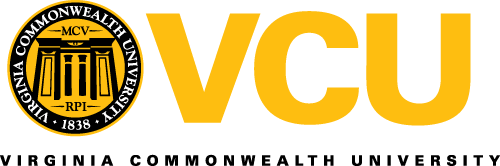
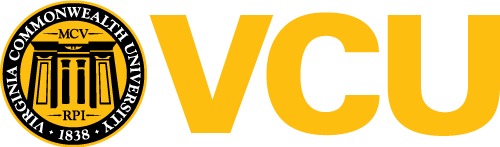
horses horses, mobile tweaks

diff --git a/app/assets/css/style.css b/app/assets/css/style.css
@@ -1,1 +1,1 @@
-abbr,address,article,aside,audio,b,blockquote,body,body div,caption,cite,code,dd,del,details,dfn,dl,dt,em,fieldset,figure,footer,form,h1,h2,h3,h4,h5,h6,header,html,i,iframe,img,ins,kbd,label,legend,li,mark,menu,nav,object,ol,p,pre,q,samp,section,small,span,strong,sub,summary,sup,table,tbody,td,tfoot,th,thead,time,tr,ul,var,video{margin:0;padding:0;border:0;font-size:100%;font-weight:400;vertical-align:baseline;background:0 0}article,aside,details,figcaption,figure,footer,header,hgroup,nav,section,summary{display:block}audio,canvas,video{display:inline-block}*,:after,:before{-webkit-box-sizing:border-box;-moz-box-sizing:border-box;box-sizing:border-box}audio:not([controls]){display:none;height:0}[hidden],template{display:none}.h1,.h2,.h3,.h4,.h5,button,h1,h2,h3,h4,h5,html,input,select,textarea{font-smoothing:antialiased;text-rendering:optimizeLegibility}html{background:#fff;color:#333;-webkit-text-size-adjust:100%;-ms-text-size-adjust:100%;overflow-y:scroll}button,html,input,select,textarea{margin:0;font-family:"Open Sans",sans-serif}a{color:#fff}a:focus{outline:thin dotted}a:active,a:hover{outline:0;color:#e8e8e8}h1{font-size:2em;margin:.67em 0}h2{font-size:1.5em;margin:.83em 0}h3{font-size:1.17em;margin:1em 0}h4{font-size:1em;margin:1.33em 0}h5{font-size:.83em;margin:1.67em 0}h6{font-size:.75em;margin:2.33em 0}.h1 a,.h1 a:hover,.h2 a,.h2 a:hover,.h3 a,.h3 a:hover,.h4 a,.h4 a:hover,.h5 a,.h5 a:hover,h1 a,h1 a:hover,h2 a,h2 a:hover,h3 a,h3 a:hover,h4 a,h4 a:hover,h5 a,h5 a:hover{color:#333;text-decoration:none}hgroup{margin-bottom:.75em}p{margin:0 0 1.5em;word-break:break-all;word-break:break-word;-webkit-hyphens:auto;-moz-hyphens:auto;-ms-hyphens:auto;hyphens:auto}b,strong{font-weight:700}dfn{font-style:italic}mark{background:#ff0;color:#000}code,kbd,pre,samp{font-family:monospace,serif;font-size:1em}pre{white-space:pre;white-space:pre-wrap;white-space:pre-line;word-wrap:break-word}small{font-size:80%}sub,sup{font-size:75%;line-height:0;position:relative;vertical-align:baseline}sup{top:-.5em}sub{bottom:-.25em}del{text-decoration:line-through}abbr,acronym{border-bottom:1px dotted #ddd;cursor:help}address{display:block;margin:0 0 .75em}blockquote,q{quotes:none}blockquote:after,blockquote:before,q:after,q:before{content:'';content:none}blockquote{border-left:2px solid #ddd;color:#595959;margin:1.5em 0;padding-left:.75em}cite{color:#737373;font-style:italic}cite:before{content:'\2014 \00A0'}button,html input[type=button],input[type=reset],input[type=submit]{padding:1em 2em;color:#fff;background:#466dd1}button:hover,html input[type=button]:hover,input[type=reset]:hover,input[type=submit]:hover{background:#2d54b7}fieldset{border:1px solid #ddd;background:#f7f7f7;margin:0 0 .75em;padding:1.5em}legend{white-space:normal}label{font-weight:700;margin-bottom:.375em}label.required:after{content:"*"}label abbr{display:none}button,input,select,textarea{font-family:inherit;font-size:100%;vertical-align:baseline}button,input{line-height:normal}button,select{text-transform:none}select{width:auto;max-width:100%;margin-bottom:1.5em}button,html input[type=button],input[type=reset],input[type=submit]{-webkit-appearance:none;cursor:pointer;white-space:nowrap;border:0}button[disabled],input[disabled]{cursor:default}input[type=search]{-webkit-appearance:textfield}input[type=search]::-webkit-search-cancel-button,input[type=search]::-webkit-search-decoration{-webkit-appearance:none}button::-moz-focus-inner,input::-moz-focus-inner{border:0;padding:0}input[type=color],input[type=date],input[type=datetime-local],input[type=datetime],input[type=email],input[type=month],input[type=number],input[type=password],input[type=search],input[type=tel],input[type=text],input[type=time],input[type=url],input[type=week],select[multiple=multiple],textarea{background-color:#fff;border:1px solid #ddd;margin-bottom:.75em;padding:.5em;-webkit-transition:.2s;transition:.2s;width:100%;line-height:1.5em}input[type=color]:hover,input[type=date]:hover,input[type=datetime-local]:hover,input[type=datetime]:hover,input[type=email]:hover,input[type=month]:hover,input[type=number]:hover,input[type=password]:hover,input[type=search]:hover,input[type=tel]:hover,input[type=text]:hover,input[type=time]:hover,input[type=url]:hover,input[type=week]:hover,select[multiple=multiple]:hover,textarea:hover{border-color:#eee}input[type=color]:focus,input[type=date]:focus,input[type=datetime-local]:focus,input[type=datetime]:focus,input[type=email]:focus,input[type=month]:focus,input[type=number]:focus,input[type=password]:focus,input[type=search]:focus,input[type=tel]:focus,input[type=text]:focus,input[type=time]:focus,input[type=url]:focus,input[type=week]:focus,select[multiple=multiple]:focus,textarea:focus{border-color:#ddd;outline:0}textarea{overflow:auto;vertical-align:top;resize:vertical}ol,ul{margin:0 0 0 1.25em}dl dt{font-weight:700}nav ol,nav ul{margin:0;list-style:none}table{border-collapse:collapse;border-spacing:0;margin:.75em 0;table-layout:fixed;width:100%}th{border-bottom:1px solid #b7b7b7;font-weight:700;padding:.75em 0;text-align:left}td{border-bottom:1px solid #ddd;padding:.75em 0}td,th,tr{vertical-align:middle}embed,img,object{max-width:100%}abbr[title],dfn[title]{border-bottom:1px dotted #000;cursor:help}hr{display:block;height:1px;border:0;border-top:1px solid #ccc;margin:1em 0;padding:0}.image-replacement{text-indent:200%;white-space:nowrap;overflow:hidden}.clearfix{zoom:1}.clearfix:after,.clearfix:before{content:"";display:table}.clearfix:after{clear:both}.text-left{text-align:left}.text-center{text-align:center}.text-right{text-align:right}.video-container{position:relative;padding-bottom:56.25%;padding-top:0;height:0;overflow:hidden;width:100%;margin-bottom:1em}.video-container iframe{position:absolute;top:0;left:0;width:100%;height:100%}#main{max-width:1200px;margin-left:auto;margin-right:auto}#main:after{content:" ";display:block;clear:both}body,html{height:100%;width:100%;padding:0;margin:0}#wrapper{position:relative;width:800px;min-height:400px;margin:100px auto;color:#333}.header__inner{max-width:1200px;margin-left:auto;margin-right:auto}.header__inner:after{content:" ";display:block;clear:both}.article{text-align:center;padding:0 1.5em}.article__header{padding:2em 0;text-align:left}.article__section{margin-top:10em}.article__section .vcu-logo{max-width:400px;margin-bottom:2em}.article__section .hero-text{font-size:3em;color:#fff}.article button a{text-decoration:none}.footer{color:#fff;margin-top:2em}.footer__inner{max-width:1200px;margin-left:auto;margin-right:auto;padding:1em 0;text-align:center}.footer__inner:after{content:" ";display:block;clear:both}@media (min-width:768px){.nav ul>li{display:inline-block}#mobile-nav-button{display:none}}@media print{*{background:transparent!important;color:#000!important;text-shadow:none!important;-webkit-filter:none!important;filter:none!important;-ms-filter:none!important}a,a:visited{color:#444!important;text-decoration:underline}a:after,a:visited:after{content:" (" attr(href) ")"}a abbr[title]:after,a:visited abbr[title]:after{content:" (" attr(title) ")"}.ir a:after,a[href^="javascript:"]:after,a[href^="#"]:after{content:""}blockquote,pre{border:1px solid #999;page-break-inside:avoid}thead{display:table-header-group}img,tr{page-break-inside:avoid}img{max-width:100%!important}h2,h3,p{orphans:3;widows:3}h2,h3{page-break-after:avoid}.sidebar,nav{display:none}}@-webkit-keyframes slideIn{from{margin-left:-100%}to{margin-left:0}}@keyframes slideIn{from{margin-left:-100%}to{margin-left:0}}@-webkit-keyframes fadeIn{from{opacity:0}to{opacity:1}}@keyframes fadeIn{from{opacity:0}to{opacity:1}}@-webkit-keyframes fadeInSlideDown{from{opacity:0;-webkit-transform:translate(0,-10px);transform:translate(0,-10px)}to{opacity:1;-webkit-transform:translate(0,0);transform:translate(0,0)}}@keyframes fadeInSlideDown{from{opacity:0;-webkit-transform:translate(0,-10px);transform:translate(0,-10px)}to{opacity:1;-webkit-transform:translate(0,0);transform:translate(0,0)}}@-webkit-keyframes fadeInSlideUp{from{opacity:0;-webkit-transform:translate(0,10px);transform:translate(0,10px)}to{opacity:1;-webkit-transform:translate(0,0);transform:translate(0,0)}}@keyframes fadeInSlideUp{from{opacity:0;-webkit-transform:translate(0,10px);transform:translate(0,10px)}to{opacity:1;-webkit-transform:translate(0,0);transform:translate(0,0)}}
+abbr,address,article,aside,audio,b,blockquote,body,body div,caption,cite,code,dd,del,details,dfn,dl,dt,em,fieldset,figure,footer,form,h1,h2,h3,h4,h5,h6,header,html,i,iframe,img,ins,kbd,label,legend,li,mark,menu,nav,object,ol,p,pre,q,samp,section,small,span,strong,sub,summary,sup,table,tbody,td,tfoot,th,thead,time,tr,ul,var,video{margin:0;padding:0;border:0;font-size:100%;font-weight:400;vertical-align:baseline;background:0 0}article,aside,details,figcaption,figure,footer,header,hgroup,nav,section,summary{display:block}audio,canvas,video{display:inline-block}*,:after,:before{-webkit-box-sizing:border-box;-moz-box-sizing:border-box;box-sizing:border-box}audio:not([controls]){display:none;height:0}[hidden],template{display:none}.h1,.h2,.h3,.h4,.h5,button,h1,h2,h3,h4,h5,html,input,select,textarea{font-smoothing:antialiased;text-rendering:optimizeLegibility}html{background:#fff;color:#333;-webkit-text-size-adjust:100%;-ms-text-size-adjust:100%;overflow-y:scroll}button,html,input,select,textarea{margin:0;font-family:"Open Sans",sans-serif}a{color:#fff}a:focus{outline:thin dotted}a:active,a:hover{outline:0;color:#e8e8e8}h1{font-size:2em;margin:.67em 0}h2{font-size:1.5em;margin:.83em 0}h3{font-size:1.17em;margin:1em 0}h4{font-size:1em;margin:1.33em 0}h5{font-size:.83em;margin:1.67em 0}h6{font-size:.75em;margin:2.33em 0}.h1 a,.h1 a:hover,.h2 a,.h2 a:hover,.h3 a,.h3 a:hover,.h4 a,.h4 a:hover,.h5 a,.h5 a:hover,h1 a,h1 a:hover,h2 a,h2 a:hover,h3 a,h3 a:hover,h4 a,h4 a:hover,h5 a,h5 a:hover{color:#333;text-decoration:none}hgroup{margin-bottom:.75em}p{margin:0 0 1.5em;word-break:break-all;word-break:break-word;-webkit-hyphens:auto;-moz-hyphens:auto;-ms-hyphens:auto;hyphens:auto}b,strong{font-weight:700}dfn{font-style:italic}mark{background:#ff0;color:#000}code,kbd,pre,samp{font-family:monospace,serif;font-size:1em}pre{white-space:pre;white-space:pre-wrap;white-space:pre-line;word-wrap:break-word}small{font-size:80%}sub,sup{font-size:75%;line-height:0;position:relative;vertical-align:baseline}sup{top:-.5em}sub{bottom:-.25em}del{text-decoration:line-through}abbr,acronym{border-bottom:1px dotted #ddd;cursor:help}address{display:block;margin:0 0 .75em}blockquote,q{quotes:none}blockquote:after,blockquote:before,q:after,q:before{content:'';content:none}blockquote{border-left:2px solid #ddd;color:#595959;margin:1.5em 0;padding-left:.75em}cite{color:#737373;font-style:italic}cite:before{content:'\2014 \00A0'}button,html input[type=button],input[type=reset],input[type=submit]{padding:1em 2em;color:#fff;background:#466dd1}button:hover,html input[type=button]:hover,input[type=reset]:hover,input[type=submit]:hover{background:#2d54b7}fieldset{border:1px solid #ddd;background:#f7f7f7;margin:0 0 .75em;padding:1.5em}legend{white-space:normal}label{font-weight:700;margin-bottom:.375em}label.required:after{content:"*"}label abbr{display:none}button,input,select,textarea{font-family:inherit;font-size:100%;vertical-align:baseline}button,input{line-height:normal}button,select{text-transform:none}select{width:auto;max-width:100%;margin-bottom:1.5em}button,html input[type=button],input[type=reset],input[type=submit]{-webkit-appearance:none;cursor:pointer;white-space:nowrap;border:0}button[disabled],input[disabled]{cursor:default}input[type=search]{-webkit-appearance:textfield}input[type=search]::-webkit-search-cancel-button,input[type=search]::-webkit-search-decoration{-webkit-appearance:none}button::-moz-focus-inner,input::-moz-focus-inner{border:0;padding:0}input[type=color],input[type=date],input[type=datetime-local],input[type=datetime],input[type=email],input[type=month],input[type=number],input[type=password],input[type=search],input[type=tel],input[type=text],input[type=time],input[type=url],input[type=week],select[multiple=multiple],textarea{background-color:#fff;border:1px solid #ddd;margin-bottom:.75em;padding:.5em;-webkit-transition:.2s;transition:.2s;width:100%;line-height:1.5em}input[type=color]:hover,input[type=date]:hover,input[type=datetime-local]:hover,input[type=datetime]:hover,input[type=email]:hover,input[type=month]:hover,input[type=number]:hover,input[type=password]:hover,input[type=search]:hover,input[type=tel]:hover,input[type=text]:hover,input[type=time]:hover,input[type=url]:hover,input[type=week]:hover,select[multiple=multiple]:hover,textarea:hover{border-color:#eee}input[type=color]:focus,input[type=date]:focus,input[type=datetime-local]:focus,input[type=datetime]:focus,input[type=email]:focus,input[type=month]:focus,input[type=number]:focus,input[type=password]:focus,input[type=search]:focus,input[type=tel]:focus,input[type=text]:focus,input[type=time]:focus,input[type=url]:focus,input[type=week]:focus,select[multiple=multiple]:focus,textarea:focus{border-color:#ddd;outline:0}textarea{overflow:auto;vertical-align:top;resize:vertical}ol,ul{margin:0 0 0 1.25em}dl dt{font-weight:700}nav ol,nav ul{margin:0;list-style:none}table{border-collapse:collapse;border-spacing:0;margin:.75em 0;table-layout:fixed;width:100%}th{border-bottom:1px solid #b7b7b7;font-weight:700;padding:.75em 0;text-align:left}td{border-bottom:1px solid #ddd;padding:.75em 0}td,th,tr{vertical-align:middle}embed,img,object{max-width:100%}abbr[title],dfn[title]{border-bottom:1px dotted #000;cursor:help}hr{display:block;height:1px;border:0;border-top:1px solid #ccc;margin:1em 0;padding:0}.image-replacement{text-indent:200%;white-space:nowrap;overflow:hidden}.clearfix{zoom:1}.clearfix:after,.clearfix:before{content:"";display:table}.clearfix:after{clear:both}.text-left{text-align:left}.text-center{text-align:center}.text-right{text-align:right}.video-container{position:relative;padding-bottom:56.25%;padding-top:0;height:0;overflow:hidden;width:100%;margin-bottom:1em}.video-container iframe{position:absolute;top:0;left:0;width:100%;height:100%}#main{max-width:1200px;margin-left:auto;margin-right:auto}#main:after{content:" ";display:block;clear:both}body,html{height:100%;width:100%;padding:0;margin:0}#wrapper{position:relative;width:800px;min-height:400px;margin:100px auto;color:#333}.header__inner{max-width:1200px;margin-left:auto;margin-right:auto}.header__inner:after{content:" ";display:block;clear:both}.article{text-align:center;padding:0 1.5em}.article__header{padding:2em 0;text-align:left}.article__section{margin-top:10em}.article__section .vcu-logo{max-width:400px;margin-bottom:2em}.article__section .hero-text{font-size:3em;color:#fff}.article button a{text-decoration:none}.footer{color:#fff;margin-top:2em}.footer__inner{max-width:1200px;margin-left:auto;margin-right:auto;padding:1em 0;text-align:center}.footer__inner:after{content:" ";display:block;clear:both}@media (min-width:768px){.nav ul>li{display:inline-block}#mobile-nav-button{display:none}}@media (max-width:767px){.article__section .vcu-logo{max-width:200px}.article__section .hero-text{font-size:1.75em}}@media print{*{background:transparent!important;color:#000!important;text-shadow:none!important;-webkit-filter:none!important;filter:none!important;-ms-filter:none!important}a,a:visited{color:#444!important;text-decoration:underline}a:after,a:visited:after{content:" (" attr(href) ")"}a abbr[title]:after,a:visited abbr[title]:after{content:" (" attr(title) ")"}.ir a:after,a[href^="javascript:"]:after,a[href^="#"]:after{content:""}blockquote,pre{border:1px solid #999;page-break-inside:avoid}thead{display:table-header-group}img,tr{page-break-inside:avoid}img{max-width:100%!important}h2,h3,p{orphans:3;widows:3}h2,h3{page-break-after:avoid}.sidebar,nav{display:none}}@-webkit-keyframes slideIn{from{margin-left:-100%}to{margin-left:0}}@keyframes slideIn{from{margin-left:-100%}to{margin-left:0}}@-webkit-keyframes fadeIn{from{opacity:0}to{opacity:1}}@keyframes fadeIn{from{opacity:0}to{opacity:1}}@-webkit-keyframes fadeInSlideDown{from{opacity:0;-webkit-transform:translate(0,-10px);transform:translate(0,-10px)}to{opacity:1;-webkit-transform:translate(0,0);transform:translate(0,0)}}@keyframes fadeInSlideDown{from{opacity:0;-webkit-transform:translate(0,-10px);transform:translate(0,-10px)}to{opacity:1;-webkit-transform:translate(0,0);transform:translate(0,0)}}@-webkit-keyframes fadeInSlideUp{from{opacity:0;-webkit-transform:translate(0,10px);transform:translate(0,10px)}to{opacity:1;-webkit-transform:translate(0,0);transform:translate(0,0)}}@keyframes fadeInSlideUp{from{opacity:0;-webkit-transform:translate(0,10px);transform:translate(0,10px)}to{opacity:1;-webkit-transform:translate(0,0);transform:translate(0,0)}}

diff --git a/app/assets/js/footer.min.js b/app/assets/js/footer.min.js
@@ -1,1 +1,1 @@
-!function(a){function b(b,c,d,e){var f=b.text().split(c),g="";f.length&&(a(f).each(function(a,b){g+='<span class="'+d+(a+1)+'">'+b+"</span>"+e}),b.empty().append(g))}var c={init:function(){return this.each(function(){b(a(this),"","char","")})},words:function(){return this.each(function(){b(a(this)," ","word"," ")})},lines:function(){return this.each(function(){var c="eefec303079ad17405c889e092e105b0";b(a(this).children("br").replaceWith(c).end(),c,"line","")})}};a.fn.lettering=function(b){return b&&c[b]?c[b].apply(this,[].slice.call(arguments,1)):"letters"!==b&&b?(a.error("Method "+b+" does not exist on jQuery.lettering"),this):c.init.apply(this,[].slice.call(arguments,0))}}(jQuery),function(a){"use strict";a(document).ready(function(){a.backstretch("./assets/img/print-wall.jpg")})}(window.jQuery);
+!function(a){function b(b,c,d,e){var f=b.text().split(c),g="";f.length&&(a(f).each(function(a,b){g+='<span class="'+d+(a+1)+'">'+b+"</span>"+e}),b.empty().append(g))}var c={init:function(){return this.each(function(){b(a(this),"","char","")})},words:function(){return this.each(function(){b(a(this)," ","word"," ")})},lines:function(){return this.each(function(){var c="eefec303079ad17405c889e092e105b0";b(a(this).children("br").replaceWith(c).end(),c,"line","")})}};a.fn.lettering=function(b){return b&&c[b]?c[b].apply(this,[].slice.call(arguments,1)):"letters"!==b&&b?(a.error("Method "+b+" does not exist on jQuery.lettering"),this):c.init.apply(this,[].slice.call(arguments,0))}}(jQuery),function(a){"use strict";a(document).ready(function(){a.backstretch("./assets/img/horses-horses.jpg")})}(window.jQuery);

diff --git a/app/dev/css/build/cmq/style-autoprefixed.css b/app/dev/css/build/cmq/style-autoprefixed.css
@@ -998,14 +998,14 @@ Stylesheet: Navigation Stylesheet
 	margin-bottom: 2em;
 }
 
-/* line 25, ../scss/modules/_article.scss */
+/* line 28, ../scss/modules/_article.scss */
 
 .article__section .hero-text {
 	font-size: 3em;
 	color: white;
 }
 
-/* line 34, ../scss/modules/_article.scss */
+/* line 40, ../scss/modules/_article.scss */
 
 .article button a {
 	text-decoration: none;
@@ -1074,6 +1074,22 @@ Use this for testing
 
 #mobile-nav-button {
 	display: none;
+}
+
+}
+
+@media (max-width: 767px) {
+
+/* line 21, ../scss/modules/_article.scss */
+
+.article__section .vcu-logo {
+	max-width: 200px;
+}
+
+/* line 28, ../scss/modules/_article.scss */
+
+.article__section .hero-text {
+	font-size: 1.75em;
 }
 
 }

diff --git a/app/dev/css/build/style-autoprefixed.css b/app/dev/css/build/style-autoprefixed.css
@@ -846,12 +846,24 @@ Stylesheet: Navigation Stylesheet
   max-width: 400px;
   margin-bottom: 2em;
 }
-/* line 25, ../scss/modules/_article.scss */
+@media (max-width: 767px) {
+  /* line 21, ../scss/modules/_article.scss */
+  .article__section .vcu-logo {
+    max-width: 200px;
+  }
+}
+/* line 28, ../scss/modules/_article.scss */
 .article__section .hero-text {
   font-size: 3em;
   color: white;
 }
-/* line 34, ../scss/modules/_article.scss */
+@media (max-width: 767px) {
+  /* line 28, ../scss/modules/_article.scss */
+  .article__section .hero-text {
+    font-size: 1.75em;
+  }
+}
+/* line 40, ../scss/modules/_article.scss */
 .article button a {
   text-decoration: none;
 }

diff --git a/app/dev/css/build/style-sass.css b/app/dev/css/build/style-sass.css
@@ -784,12 +784,24 @@ Stylesheet: Navigation Stylesheet
   max-width: 400px;
   margin-bottom: 2em;
 }
-/* line 25, ../scss/modules/_article.scss */
+@media (max-width: 767px) {
+  /* line 21, ../scss/modules/_article.scss */
+  .article__section .vcu-logo {
+    max-width: 200px;
+  }
+}
+/* line 28, ../scss/modules/_article.scss */
 .article__section .hero-text {
   font-size: 3em;
   color: white;
 }
-/* line 34, ../scss/modules/_article.scss */
+@media (max-width: 767px) {
+  /* line 28, ../scss/modules/_article.scss */
+  .article__section .hero-text {
+    font-size: 1.75em;
+  }
+}
+/* line 40, ../scss/modules/_article.scss */
 .article button a {
   text-decoration: none;
 }

diff --git a/app/index.html b/app/index.html
@@ -6,7 +6,14 @@
 <!--[if IE 9 ]>    <html class="ie ie9 ie-lt10 no-js" lang="en"> <![endif]-->
 <!--[if gt IE 9]><!--><html class="no-js" lang="en"><!--<![endif]-->
 <!-- the "no-js" class is for Modernizr. --> 
+<!--
 
+__   _____ _   _          _      
+\ \ / / __| | | |__ _ _ _| |_ ___
+ \ V / (__| |_| / _` | '_|  _(_-<
+  \_/ \___|\___/\__,_|_|  \__/__/
+  
+--> 
 <head>
 
 	<meta charset="utf-8">

diff --git a/app/dev/css/scss/modules/_article.scss b/app/dev/css/scss/modules/_article.scss
@@ -21,10 +21,16 @@ Stylesheet: Navigation Stylesheet
 		.vcu-logo {
 			max-width: 400px;
 			margin-bottom: 2em;
+			@include breakpoint($breakpoint-mobile) {
+				max-width: 200px;
+			}
 		}
 		.hero-text {
 			font-size: 3em;
 			color: $white;
+			@include breakpoint($breakpoint-mobile) {
+				font-size: 1.75em;
+			}
 		}
 		&__title {
 

diff --git a/app/dev/js/build/footer.js b/app/dev/js/build/footer.js
@@ -76,7 +76,7 @@
 	/* trigger when page is ready */
 	$(document).ready(function (){
 
-		 $.backstretch("./assets/img/print-wall.jpg");
+		 $.backstretch("./assets/img/horses-horses.jpg");
 
 	});
 

diff --git a/app/dev/js/footer/footer.js b/app/dev/js/footer/footer.js
@@ -10,7 +10,7 @@
 	/* trigger when page is ready */
 	$(document).ready(function (){
 
-		 $.backstretch("./assets/img/print-wall.jpg");
+		 $.backstretch("./assets/img/horses-horses.jpg");
 
 	});
 
